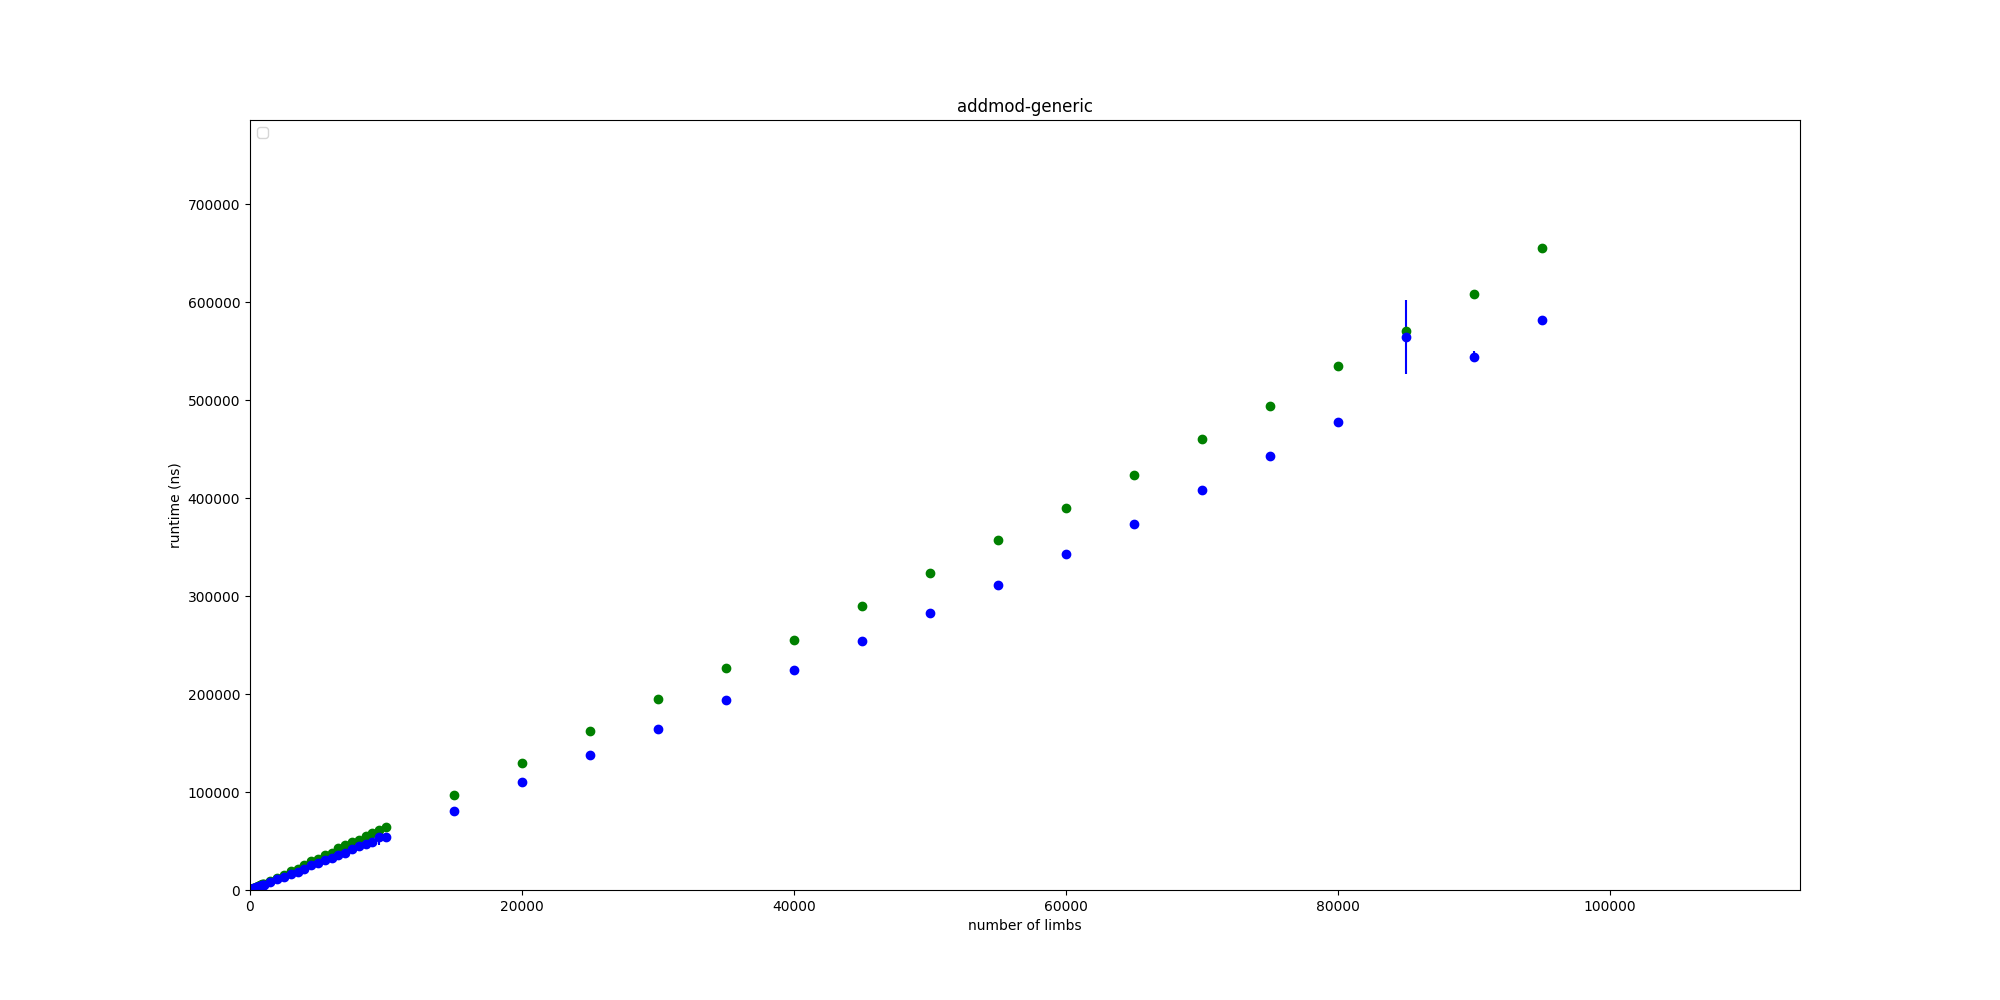
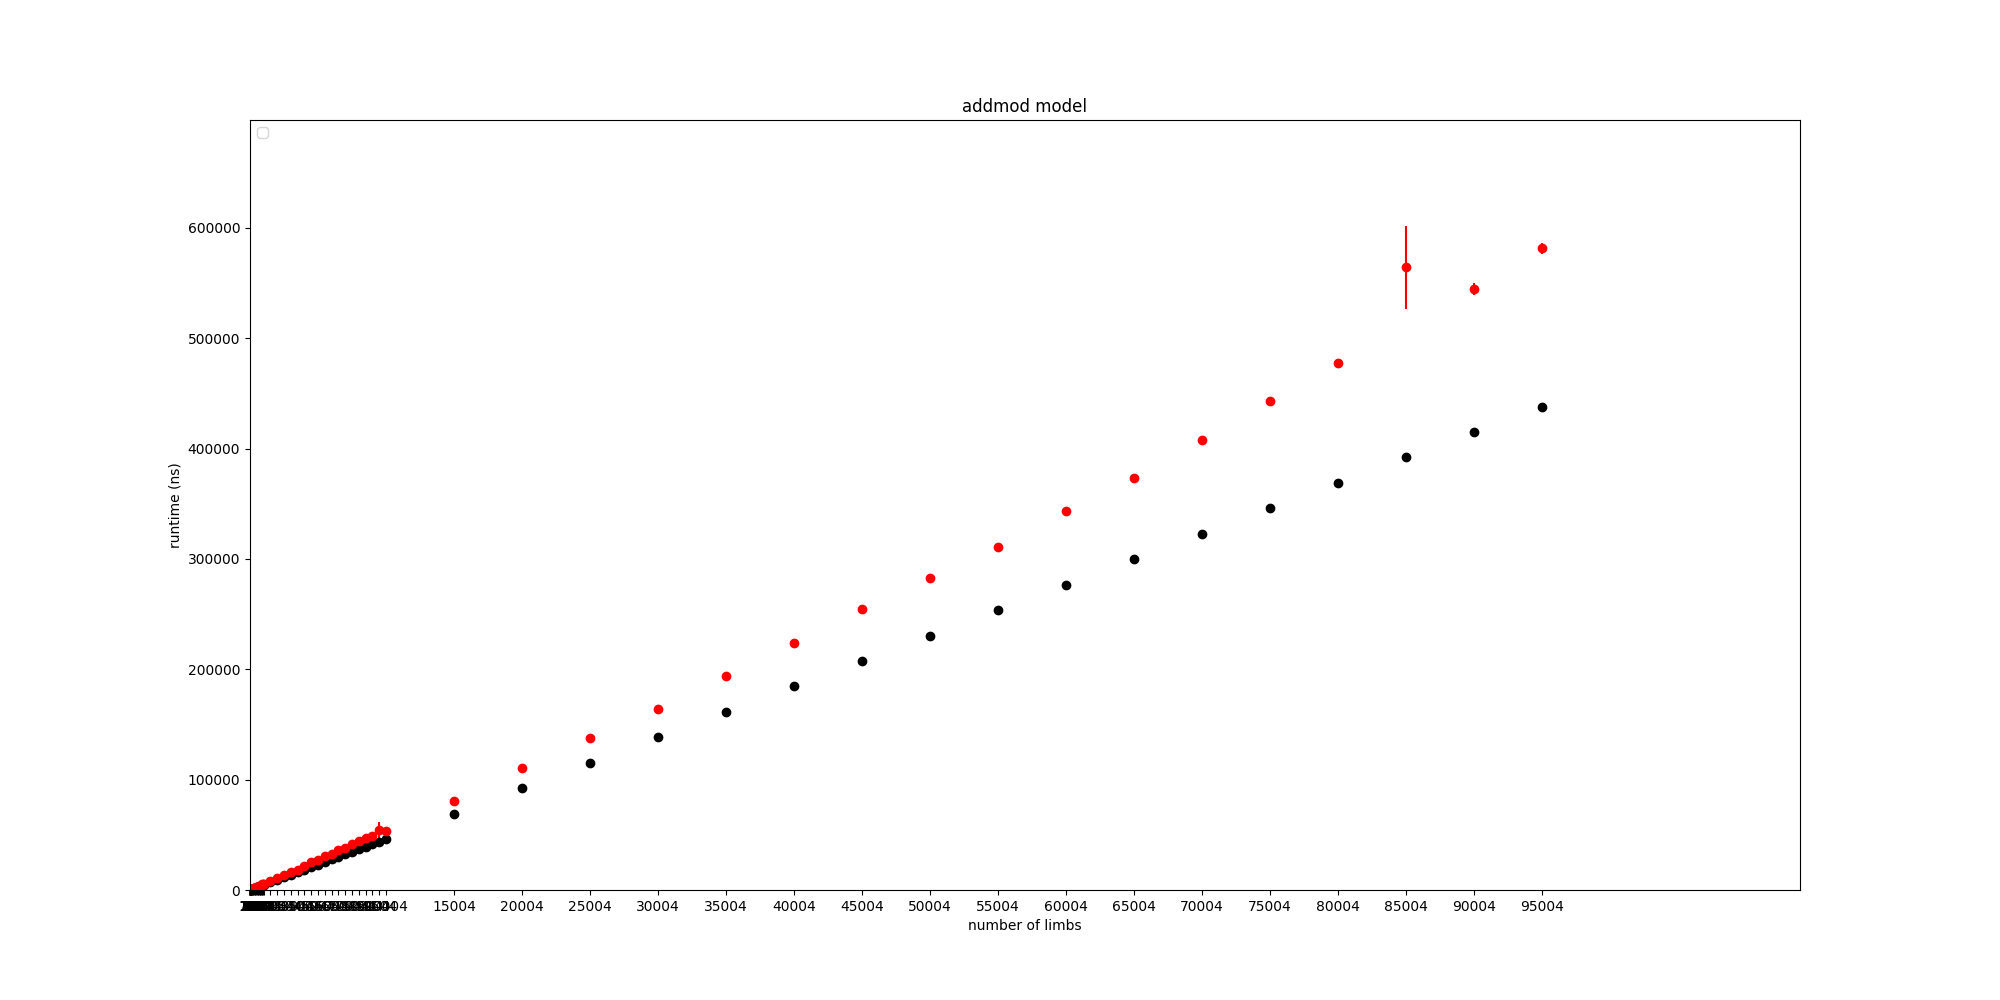
wip

diff --git a/plot.py b/plot.py
@@ -348,17 +348,21 @@ scatterplot_ns_data("charts/mulmontmax_all.png", "mulmontmax arithmetic benchmar
 scatterplot_ns_data("charts/mulmontmax_cutoff.png", "MULMONTMAX Arithmetic Benchmarks with Gas Model", (1, 64), [False, False], ["o", "-"], [mulmont_evmmax, mulmont_model])
 scatterplot_ns_data("charts/mulmontmax_low.png", "mulmontmax arithmetic benchmarks with gas model", (1, 16), [False, False], ["o", "-"], [mulmont_evmmax, mulmont_model])
 
-sys.exit(0)
+addmod_eqn = fit_linear((1, 100000), go_arith_benchmarks['addmod']['non-unrolled'], True)
+addmod_model = prep_models_for_graphing([(addmod_eqn, 100000)], 'addmod model', benches_xs)
+
+# TODO use mix of impls
+# TODO don't use stitch_data to put it in graphing format
+addmod_evmmax = stitch_data(go_arith_benchmarks['addmod']['generic'], go_arith_benchmarks['addmod']['generic'], 100000)
 
 # mulmont_eqn_low = 
 # TODO addmod/submod with model on graph
 
-# mulmont_eqn_low = [2.12, 1.29, 8.0482]
-# mulmont_eqn_hi = [0.01, 246.89, 22393.199999999997] 
-
-scatterplot_ns_data("charts/addmodx_low.png", "addmodx low limbs", (1, 12), [False, False], ["o", 'o'], [submod_generic_data, addmod_generic_data])
-scatterplot_ns_data("charts/addmodx_med.png", "addmodx medium limbs", (1, 100), [False, False], ["o", 'o'], [submod_generic_data, addmod_generic_data])
-scatterplot_ns_data("charts/addmodx_all.png", "addmodx all limbs", (1, 100000), [False, False], ["o", 'o'], [submod_generic_data, addmod_generic_data])
+scatterplot_ns_data("charts/addmodx_low.png", "addmodx low limbs", (1, 12), [False, False], ["o", 'o'], [addmod_evmmax, addmod_model])
+scatterplot_ns_data("charts/addmodx_med.png", "addmodx medium limbs", (1, 100), [False, False], ["o", 'o'], [addmod_evmmax, addmod_model])
+scatterplot_ns_data("charts/addmodx_all.png", "addmodx all limbs", (1, 100000), [False, False], ["o", 'o'], [addmod_evmmax, addmod_model])
+import pdb; pdb.set_trace()
+sys.exit(0)
 
 
 setmod_evmmax_model_graphing_data = prep_model_data_for_graphing(setmod_model, "setmod", (1, 10000))
